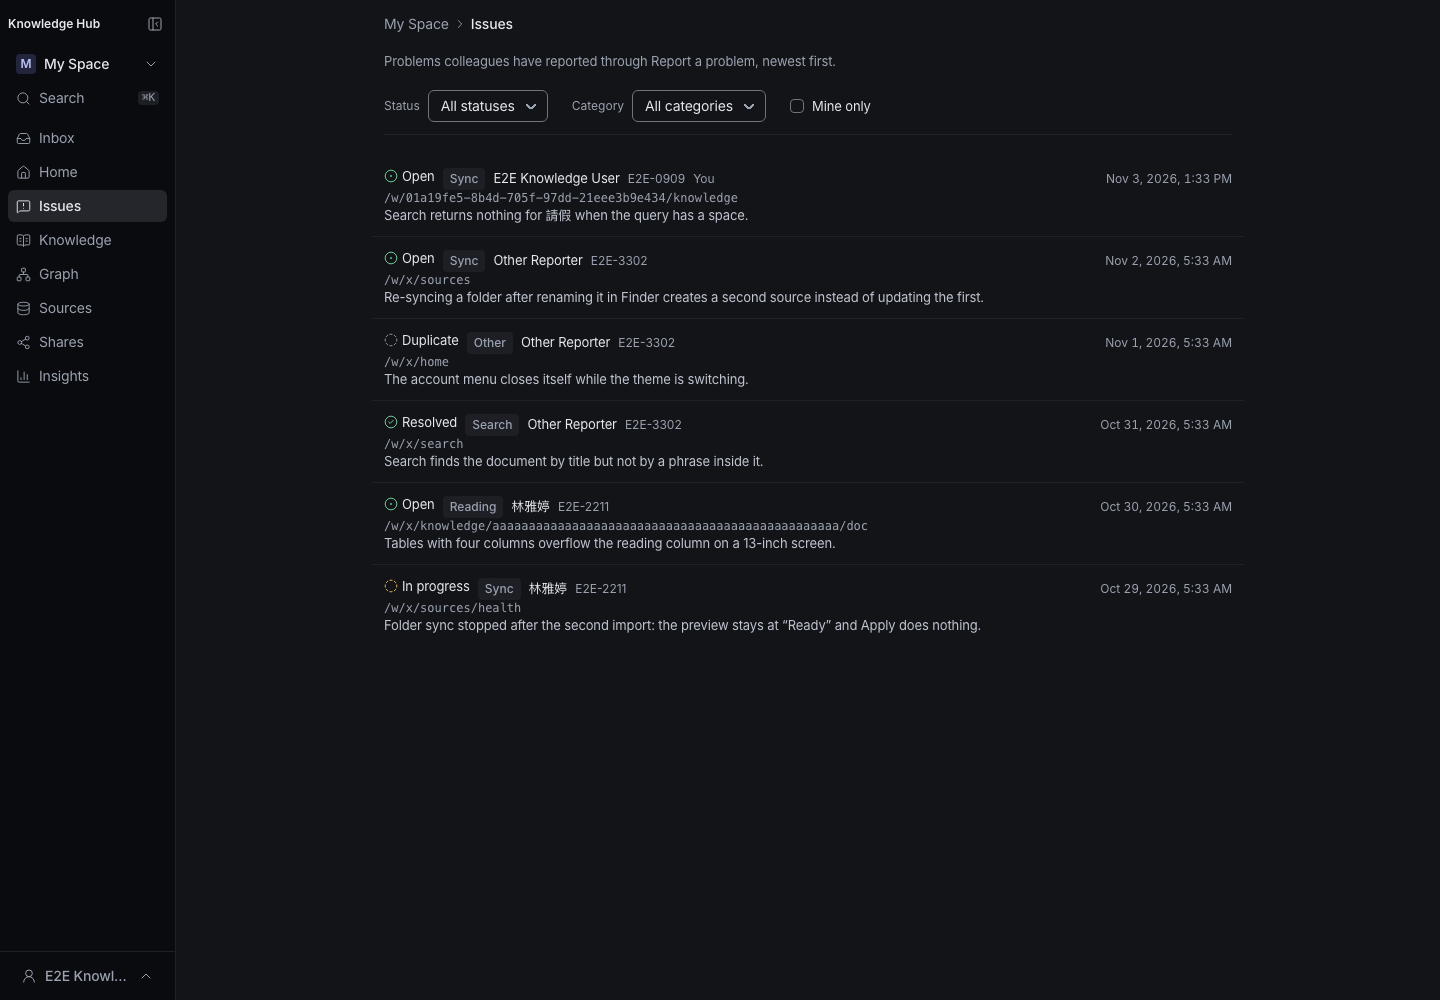
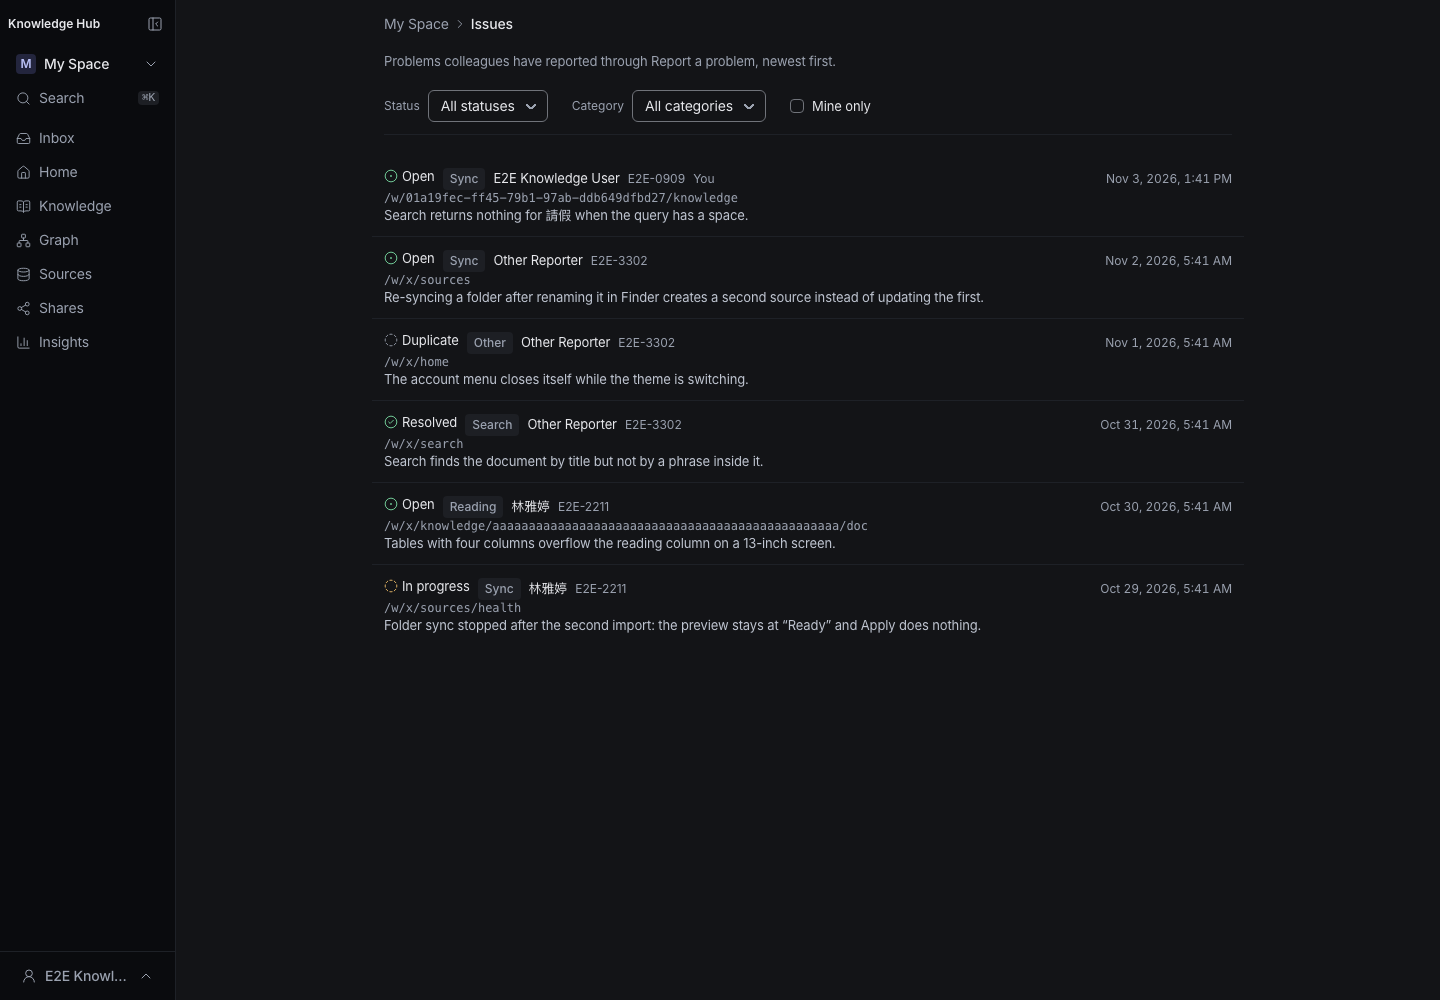
feat(issues): reach the board from Report a problem, not the rail

Changed region(s): [[0.0, 0.186, 0.125, 0.279], [0.0312, 0.31, 0.0625, 0.403], [0.4062, 0.186, 0.4688, 0.217]]

diff --git a/src/components/knowledge/feedback-report.tsx b/src/components/knowledge/feedback-report.tsx
@@ -1,5 +1,6 @@
 "use client";
 import { Dialog } from "@base-ui-components/react/dialog";
+import Link from "next/link";
 import type { RefObject } from "react";
 import {useId, useState} from "react";
 import {Button} from "@/components/ui/button";
@@ -10,7 +11,7 @@ import { FEEDBACK_CATEGORIES, type FeedbackCategory } from "@/modules/personal/d
 import { Label } from "@/components/ui/label";
 import { dialogBackdropClasses, dialogPopupClasses } from "@/components/ui/dialog";
 import { DialogCloseButton } from "@/components/ui/dialog-close";
-export function FeedbackReport({ empId, open, onOpenChange, returnFocus }: { empId: string; open: boolean; onOpenChange: (open: boolean) => void; returnFocus?: RefObject<HTMLElement | null> }){
+export function FeedbackReport({ empId, issuesHref, open, onOpenChange, returnFocus }: { empId: string; issuesHref?: string; open: boolean; onOpenChange: (open: boolean) => void; returnFocus?: RefObject<HTMLElement | null> }){
   const id = useId();
   const [category,setCategory]=useState<FeedbackCategory>("Sync");const [description,setDescription]=useState("");const [saved,setSaved]=useState(false);
   const [sending,setSending]=useState(false);const [error,setError]=useState("");
@@ -29,7 +30,7 @@ export function FeedbackReport({ empId, open, onOpenChange, returnFocus }: { emp
     <Dialog.Backdrop className={dialogBackdropClasses()} />
     <Dialog.Popup finalFocus={returnFocus} className={dialogPopupClasses("max-h-[90dvh] w-[min(30rem,92vw)] overflow-y-auto text-kh-text")}>
     <Dialog.Title className="text-title font-semibold">Report a problem</Dialog.Title><div className="mt-3 space-y-3">
-    <Dialog.Description className="text-body-sm text-kh-text-muted">Your report is sent to the maintainers with your employee ID and the page you are on. Document content is not included.</Dialog.Description>
+    <Dialog.Description className="text-body-sm text-kh-text-muted">Your report appears on the shared Issues board with your name, employee ID and the page you are on. Document content is not included.</Dialog.Description>
     {/* Shown so the reporter sees what is attached; the server still takes it from the signed-in caller, never from this field.
         Out of the tab order: nothing to do there, and the dialog's first focus belongs to Category. */}
     <div className="grid grid-cols-[minmax(0,9rem)_minmax(0,1fr)] gap-x-3 gap-y-3">
@@ -38,7 +39,7 @@ export function FeedbackReport({ empId, open, onOpenChange, returnFocus }: { emp
       <SelectMenu id={`${id}-category`} className="flex" value={category} onValueChange={value=>{setCategory(value);edited();}} options={FEEDBACK_CATEGORIES.map(value=>({value,label:value}))} />
     </div>
     <Label htmlFor={`${id}-description`}>What happened?</Label><Textarea id={`${id}-description`} maxLength={5000} value={description} onChange={e=>{setDescription(e.target.value);edited();}} placeholder="Steps to reproduce, what you expected, and any error message" />
-    <div className="flex flex-wrap justify-end gap-2"><Button variant="ghost" onClick={() => onOpenChange(false)}>Close</Button><Button variant="secondary" disabled={!description.trim()||sending} onClick={()=>void send()}>{sending?"Sending…":"Send report"}</Button></div>
+    <div className="flex flex-wrap items-center justify-end gap-2">{issuesHref?<Link href={issuesHref} onClick={()=>onOpenChange(false)} className="kh-focus-ring mr-auto rounded-md text-body-sm text-kh-link hover:underline">View all reported issues</Link>:null}<Button variant="ghost" onClick={() => onOpenChange(false)}>Close</Button><Button variant="secondary" disabled={!description.trim()||sending} onClick={()=>void send()}>{sending?"Sending…":"Send report"}</Button></div>
     {error?<p role="alert" className="text-body-sm text-kh-text">{error}</p>:null}
     {saved?<p role="status" className="text-caption text-kh-text-muted">Report sent. Thank you.</p>:null}
   </div><DialogCloseButton /></Dialog.Popup></Dialog.Portal></Dialog.Root>;

diff --git a/src/components/shell/app-shell.tsx b/src/components/shell/app-shell.tsx
@@ -24,6 +24,10 @@ import { TOGGLE_NAV_EVENT } from "./nav-toggle";
 export function AppShell({ model, children }: { model: WorkspaceShellModel; children: ReactNode }) {
   const [mobileExplorerTarget, setMobileExplorerTarget] = useState<HTMLElement | null>(null);
   const authorization = useWorkspaceAuthorizationRefresh(model.access, model.navigation);
+  // The issues board is a low-frequency surface, reached from "Report a problem" rather than a rail row.
+  // It lives in My Space even when the reader opens the dialog from a Team workspace.
+  const personalWorkspace = model.navigation.items.find((item) => item.type === "PERSONAL");
+  const issuesHref = personalWorkspace ? `/w/${personalWorkspace.id}/issues` : undefined;
   const [documentTopbar, setDocumentTopbar] = useState<DocumentTopbarState | null>(null);
   const [navOpen, setNavOpen] = useState(false);
   const [navCollapsed, setNavCollapsed] = usePersistedJson("kh:nav-collapsed", false, isBoolean);
@@ -110,7 +114,7 @@ export function AppShell({ model, children }: { model: WorkspaceShellModel; chil
             <SearchNavItem compact={navCollapsed} />
           </div>
           <div className="min-h-0 flex-1 overflow-y-auto"><PrimaryNav workspaceId={model.workspace.id} compact={navCollapsed} /></div>
-          <div className="shrink-0 border-t border-kh-border p-2"><UserMenu identityName={model.identityName} identityEmpId={model.identityEmpId} workspaceId={model.workspace.id} compact={navCollapsed}/></div>
+          <div className="shrink-0 border-t border-kh-border p-2"><UserMenu identityName={model.identityName} identityEmpId={model.identityEmpId} workspaceId={model.workspace.id} issuesHref={issuesHref} compact={navCollapsed}/></div>
         </aside>
         <main className="min-h-0 min-w-0 flex-1 overflow-y-auto bg-kh-bg has-[[data-document-pane]]:overflow-hidden">{authorization.revoked ? <p role="status">Workspace access changed. Returning to My Space…</p> : children}</main>
       </div>
@@ -121,7 +125,7 @@ export function AppShell({ model, children }: { model: WorkspaceShellModel; chil
           <div className="shrink-0 pb-2"><WorkspaceSelector workspaceId={model.workspace.id} /></div>
           <PrimaryNav workspaceId={model.workspace.id} />
           <div ref={setMobileExplorerTarget} className="min-h-0 flex-1 overflow-y-auto" />
-          <div className="shrink-0 border-t border-kh-border pt-3"><UserMenu identityName={model.identityName} identityEmpId={model.identityEmpId} workspaceId={model.workspace.id}/></div>
+          <div className="shrink-0 border-t border-kh-border pt-3"><UserMenu identityName={model.identityName} identityEmpId={model.identityEmpId} workspaceId={model.workspace.id} issuesHref={issuesHref}/></div>
         </div>
       </Drawer>
     </div>

diff --git a/src/components/shell/user-menu.tsx b/src/components/shell/user-menu.tsx
@@ -28,7 +28,7 @@ import { useDensity, type Density } from "./use-density";
  * not belong in Settings either — that surface is workspace governance, and
  * the theme is a personal preference held in this browser.
  */
-export function UserMenu({ identityName, identityEmpId, workspaceId, compact = false, trigger = "account" }: { identityName: string; identityEmpId: string; workspaceId?: string; compact?: boolean; trigger?: "account" | "preferences" }) {
+export function UserMenu({ identityName, identityEmpId, workspaceId, issuesHref, compact = false, trigger = "account" }: { identityName: string; identityEmpId: string; workspaceId?: string; issuesHref?: string; compact?: boolean; trigger?: "account" | "preferences" }) {
   const [reportOpen, setReportOpen] = useState(false);
   const accountRef = useRef<HTMLButtonElement>(null);
   const { theme, setTheme } = useTheme();
@@ -102,7 +102,7 @@ export function UserMenu({ identityName, identityEmpId, workspaceId, compact = f
         <MenuItem onClick={() => setReportOpen(true)}><span className="flex items-center gap-2"><MessageSquareWarning className="h-4 w-4 shrink-0 text-kh-text-muted" aria-hidden="true" />Report a problem</span></MenuItem>
       </MenuContent>
     </MenuRoot>
-    <FeedbackReport empId={identityEmpId} open={reportOpen} onOpenChange={setReportOpen} returnFocus={accountRef} />
+    <FeedbackReport empId={identityEmpId} issuesHref={issuesHref} open={reportOpen} onOpenChange={setReportOpen} returnFocus={accountRef} />
     </>
   );
 }

diff --git a/tests/e2e/feedback-issues.spec.ts b/tests/e2e/feedback-issues.spec.ts
@@ -22,9 +22,13 @@ test("the personal issues board lists, filters and pages the reports", async ({ 
   const pool = createDatabasePool(databaseConfig("e2e"));
 
   try {
-    // 1. The personal rail carries Issues, and it opens the board.
+    // 1. The board is not a rail row; it is reached from "Report a problem".
     await page.goto("/");
-    const issues = page.getByRole("navigation", { name: "Primary" }).getByRole("link", { name: "Issues", exact: true });
+    await expect(page.getByRole("navigation", { name: "Primary" }).getByRole("link", { name: "Issues", exact: true })).toHaveCount(0);
+    await page.getByRole("button", { name: /^Account:/ }).click();
+    await page.getByRole("menuitem", { name: "Report a problem", exact: true }).click();
+    const reportDialog = page.getByRole("dialog", { name: "Report a problem", exact: true });
+    const issues = reportDialog.getByRole("link", { name: "View all reported issues", exact: true });
     await expect(issues).toHaveAttribute("href", `/w/${workspaceId}/issues`);
     await issues.click();
     await expect(page).toHaveURL(new RegExp(`/w/${workspaceId}/issues$`));

diff --git a/src/components/shell/primary-nav.tsx b/src/components/shell/primary-nav.tsx
@@ -4,7 +4,7 @@ import { useWorkspaceAuthorization } from "./use-workspace-authorization";
 import Link from "next/link";
 import { usePathname } from "next/navigation";
 import { Tooltip } from "@/components/ui/tooltip";
-import { BarChart3, BookOpenText, Database, Inbox, MessageSquareWarning, Network, Settings, Home, Share2, type LucideIcon } from "lucide-react";
+import { BarChart3, BookOpenText, Database, Inbox, Network, Settings, Home, Share2, type LucideIcon } from "lucide-react";
 import { useInboxUnread } from "./use-inbox-unread";
 
 type NavItem = { name: string; href: string; Icon: LucideIcon; badge?: number; label?: string };
@@ -26,7 +26,6 @@ export function PrimaryNav({
   const items: NavItem[] = [
     ...(personal ? [{ name: "Inbox", href: `/w/${workspaceId}/inbox`, Icon: Inbox, badge: unread, label: inboxLabel }] : []),
     ...(personal ? [{ name: "Home", href: `/w/${workspaceId}/home`, Icon: Home }] : []),
-    ...(personal ? [{ name: "Issues", href: `/w/${workspaceId}/issues`, Icon: MessageSquareWarning }] : []),
     {
       name: "Knowledge",
       href: `/w/${workspaceId}/knowledge`,

diff --git a/docs/superpowers/verification/2026-11-03-feedback-issues-board/README.md b/docs/superpowers/verification/2026-11-03-feedback-issues-board/README.md
@@ -1,19 +1,26 @@
 # Reported issues board — visual check
 
 Captures of `/w/[workspaceId]/issues` from the isolated E2E build of
-`feat/feedback-issues-board` (`4e10854d` before the rebase onto `main`; the
-board itself did not change in the rebase). The database held fixture
-reports only — three reporters, all four statuses, one maximum-length path —
-and no production data.
+`feat/feedback-issues-board`. The database held fixture reports only — three
+reporters, all four statuses, one maximum-length path — and no production data.
+
+The board is deliberately not a rail row: it is a low-frequency surface,
+reached from the **Report a problem** dialog's `View all reported issues` link.
+`report-dialog.png` shows that entry point. The route itself stays
+personal-workspace only, so the link always opens My Space even when the
+dialog was opened from a Team workspace.
 
 | Capture | What it shows |
 | --- | --- |
-| `issues-light.png` | Desktop 1440×1000, light theme: rail row, header, filters, all six rows |
+| `report-dialog.png` | The report dialog with the board link, on the left of Close / Send report |
+| `issues-light.png` | Desktop 1440×1000, light theme: header, filters, six rows, and a rail with no Issues row |
 | `issues-dark.png` | The same page in the dark palette |
 | `issues-narrow.png` | 390×844: filters stack, the timestamp wraps under the reporter, and a long unbroken path wraps instead of overflowing (`document.scrollWidth === 390`) |
 
 The 280-character preview ends in `…`; "Show the full report" opens the
 remainder. A report the reader sent carries the muted `You` marker.
+
+![Report dialog](report-dialog.png)
 
 ![Desktop, light](issues-light.png)
 

diff --git a/docs/superpowers/specs/2026-11-03-feedback-issues-board-design.md b/docs/superpowers/specs/2026-11-03-feedback-issues-board-design.md
@@ -65,9 +65,11 @@ person may change, outside the application.
 
 Route: `/w/[workspaceId]/issues` (personal workspace only).
 
-- **Navigation:** a new **Issues** row in the primary rail, for personal
-  workspaces only, using the `MessageSquareWarning` glyph the report dialog
-  already uses. It sits with the other personal rows.
+- **Access:** the board is low-frequency, so it is **not** a navigation row.
+  It is reached from "Report a problem": the dialog carries a `View all
+  reported issues` link to the reader's personal-workspace Issues page, which
+  is where the board lives even when the dialog is opened from a Team
+  workspace. The route stays personal-workspace only.
 - **Header:** page title `Issues`; one muted line saying these are the problems
   colleagues reported through "Report a problem", newest first.
 - **Each row**, in this order:
@@ -210,8 +212,8 @@ index because the table is small and bounded by the write rate limit.
 - Anonymous reporting, report editing, deletion or retention policy.
 - Comments, voting, "me too", notifications, duplicate linking or merging.
 - Search across descriptions; counts or analytics on the board.
-- A link from the report dialog to the board (discoverability comes from the
-  personal rail).
+- A navigation (rail) entry for the board; discoverability is the report
+  dialog's link.
 
 ## Anti-goals
 
